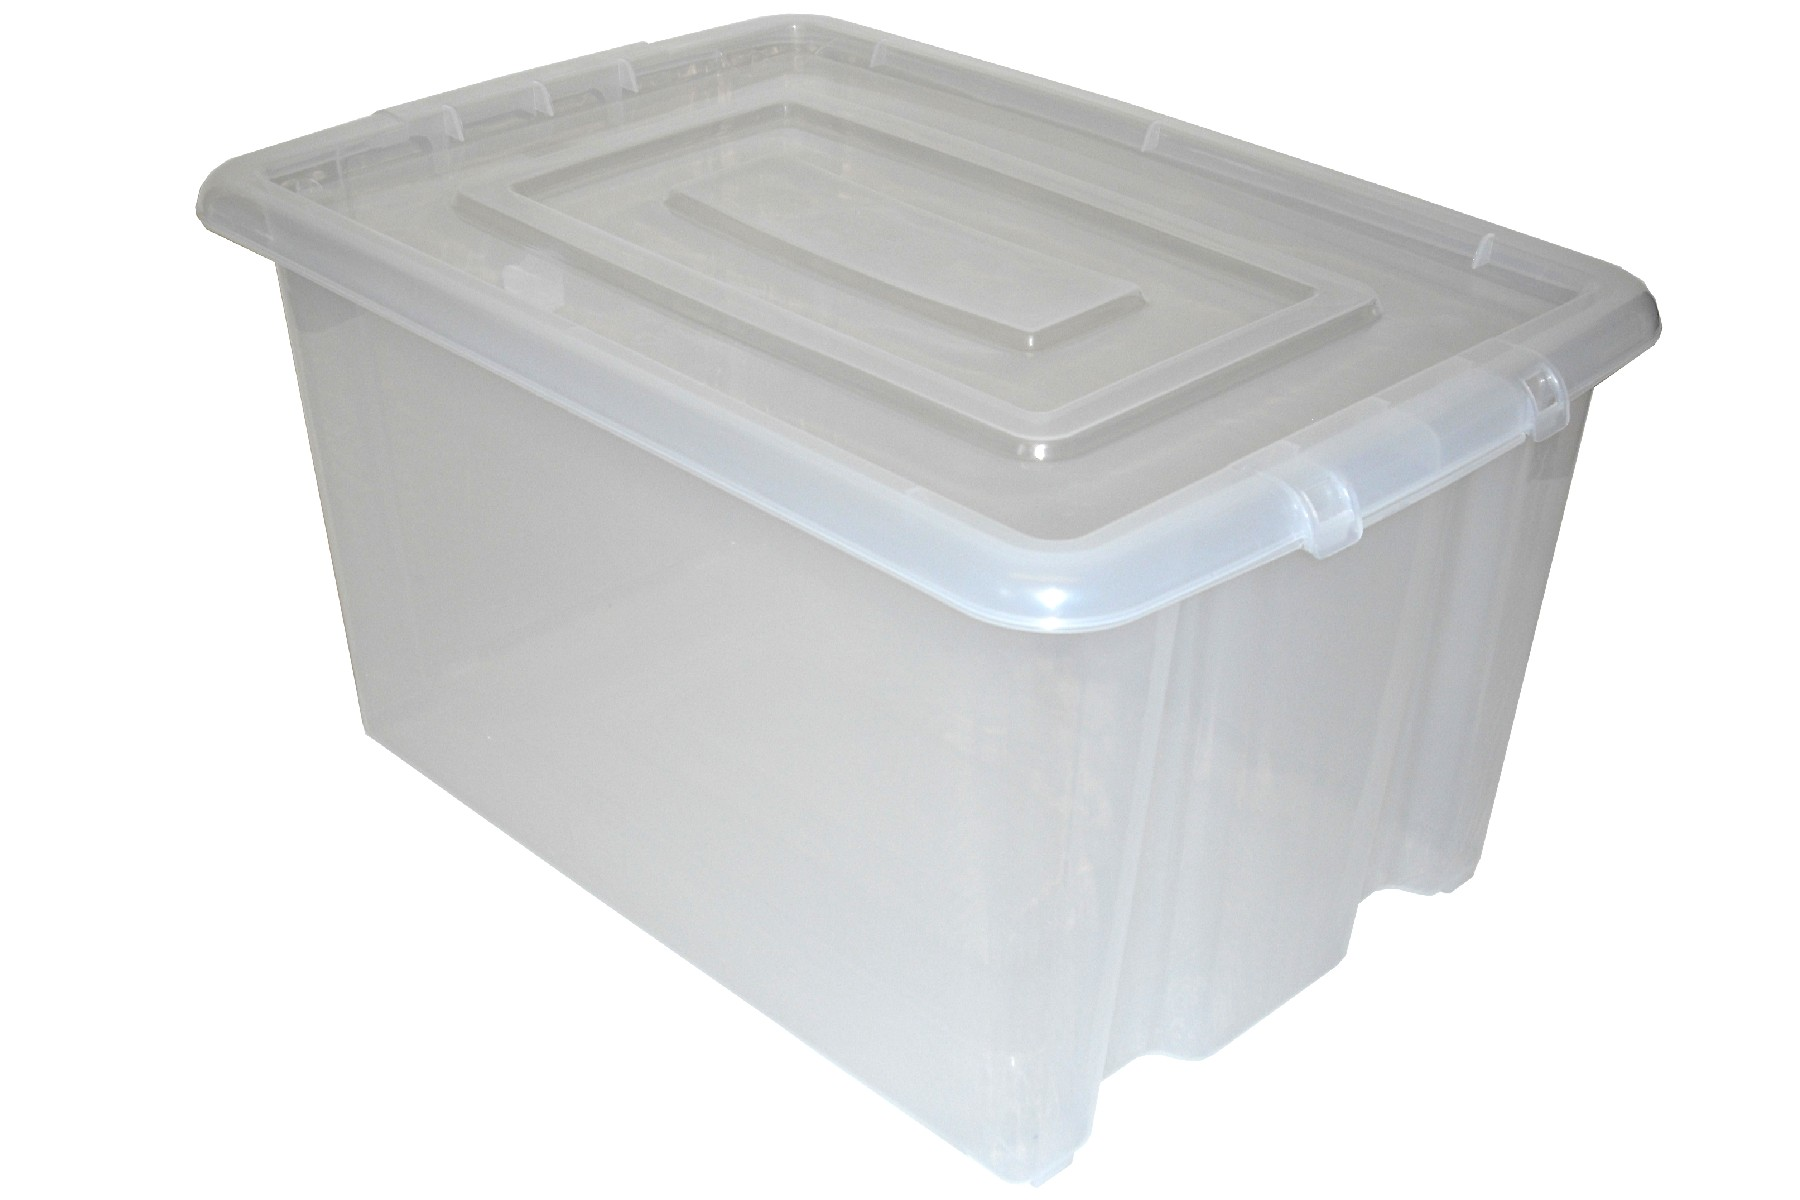
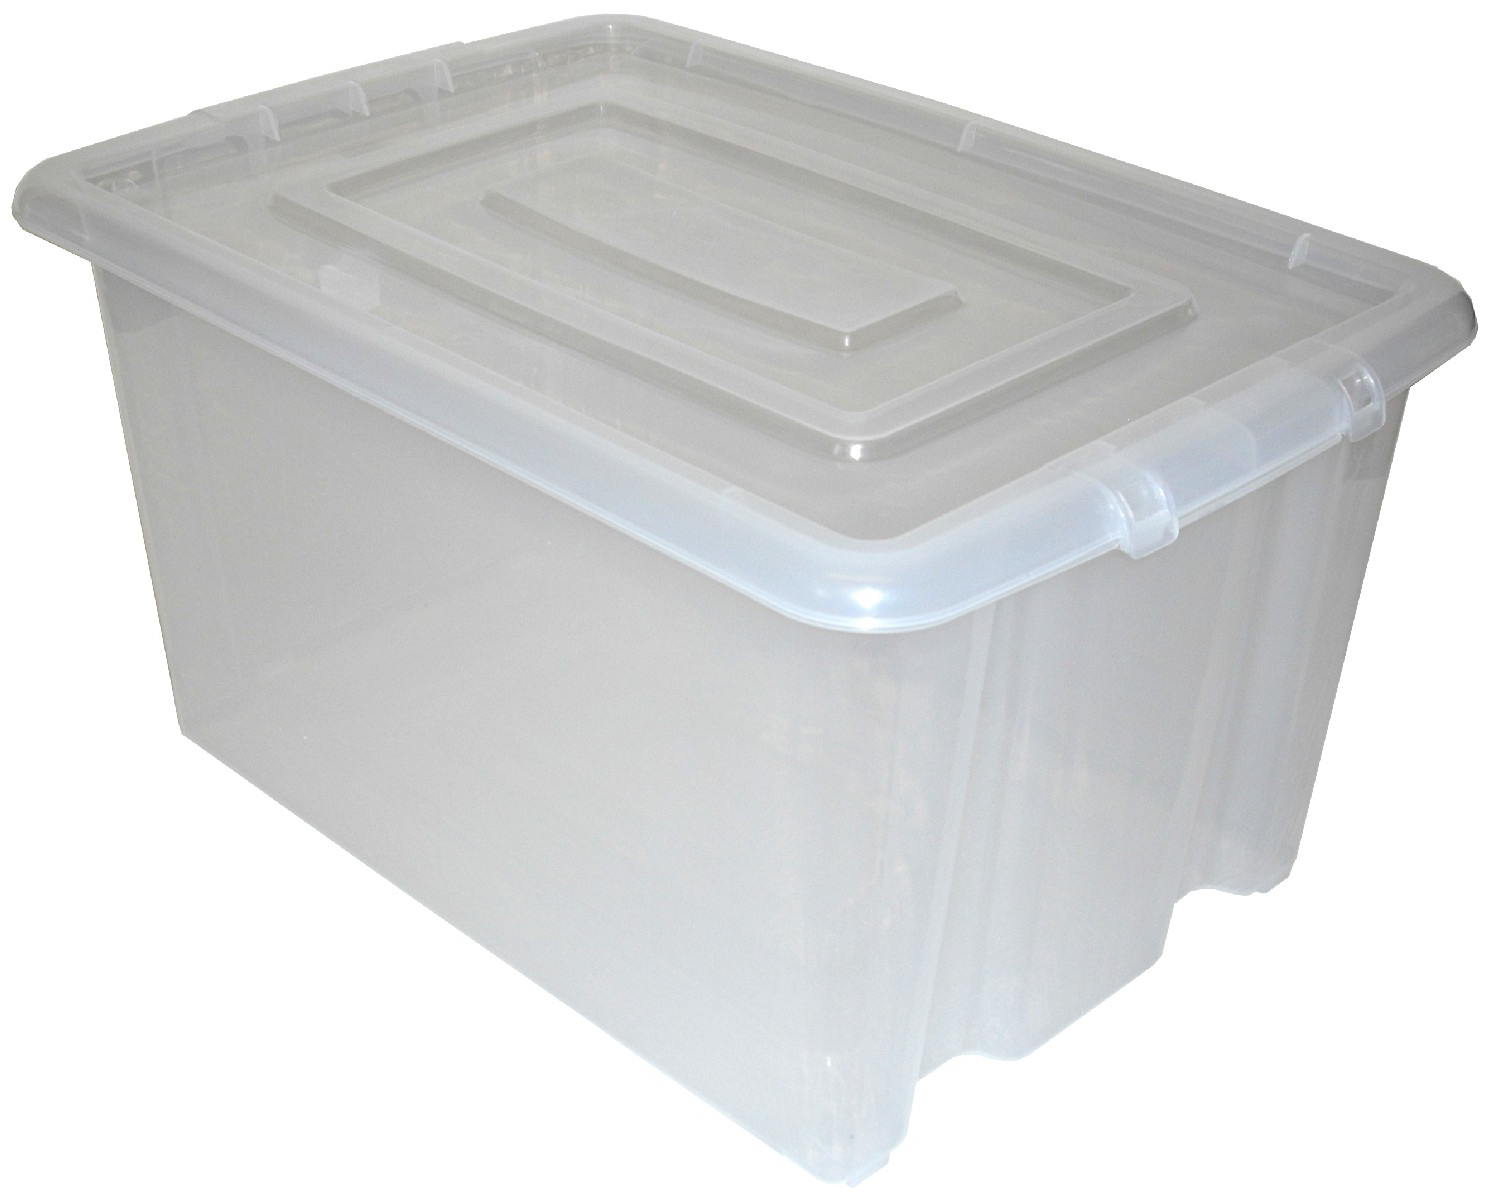
updated test site

diff --git a/foo.html b/foo.html
@@ -58,15 +58,15 @@
   </div>
 </div>
 <div class="pad row">
-  <div class="pad third"><img src="place1.jpg" height="100px" class="headerimg">
+  <div class="pad third"><img src="place1.jpg" height="150px" class="headerimg">
     <h2>Cubes</h2>
     <p>Nous livrons les cubes à votre domicile ou à votre entreprise pour vous permettre de les remplir à votre rythme.  Par la suite, nous récupérons les cubes pour les entreposer dans notre entrepôt chauffé et sécurisé ou nous vous les livrons à votre nouvel emplacement. Dimension : 5’ x 8’ x 7’ haut</p>
   </div>
-  <div class="pad third"><img src="place2.jpg" height="100px" class="headerimg">
+  <div class="pad third"><img src="place2.jpg" height="150px" class="headerimg">
     <h2>Bacs en plastique</h2>
     <p>Nous vous proposons la location de bac en plastique, afin de facilité votre déménagement ou entreposage.  Écologique, pratique, empilable et robuste ces boites sont l’outil indispensable pour maximiser l’espace intérieur de votre conteneur et protéger vos biens. Dimension : 27’’ x 17’’ x 17’’ haut</p>
   </div>
-  <div class="pad third"><img src="place3.png" height="100px" class="headerimg">
+  <div class="pad third"><img src="place3.png" height="150px" class="headerimg">
     <h2>Les indispensables</h2>
     <p>À notre local, vous trouverez un assortiment d’articles nécessaires pour faciliter et rendre votre déménagement sécuritaire.  Il vous suffit de passer votre commande et nous les ajouterons dans votre cube lors de la livraison.</p>
   </div>

diff --git a/foo.css b/foo.css
@@ -84,7 +84,6 @@ p {
      -moz-hyphens: auto;
       -ms-hyphens: auto;
           hyphens: auto;
-  text-align: justify;
 }
 ul,
 ol {
@@ -245,7 +244,7 @@ td.em {
   }
 }
 .color {
-  background: #fff;
+  background: #64dc34;
 }
 @media (max-width: 985px) {
   .wide-content {
@@ -270,7 +269,8 @@ td.em {
 }
 @media (max-width: 543px) {
   .third,
-  .two-thirds {
+  .two-thirds,
+  .half {
     display: block;
     width: 100%;
   }
@@ -283,6 +283,9 @@ td.em {
   h1 {
     width: 100%;
     text-align: center;
+  }
+  html {
+    font-size: 16px;
   }
 }
 @media (min-width: 1450px) {
